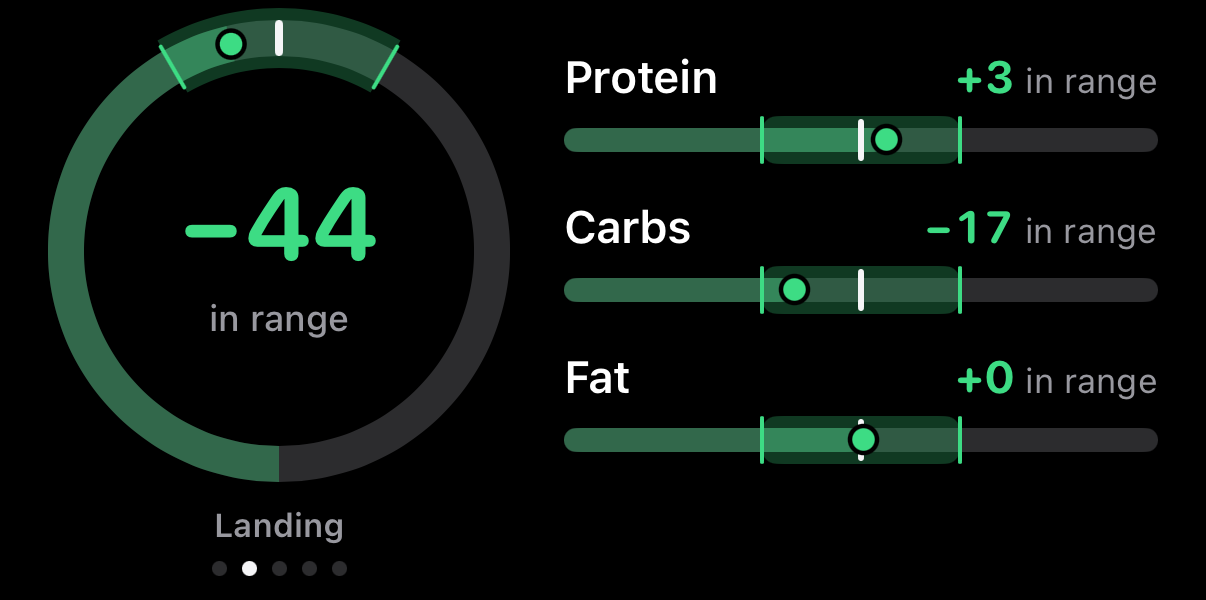
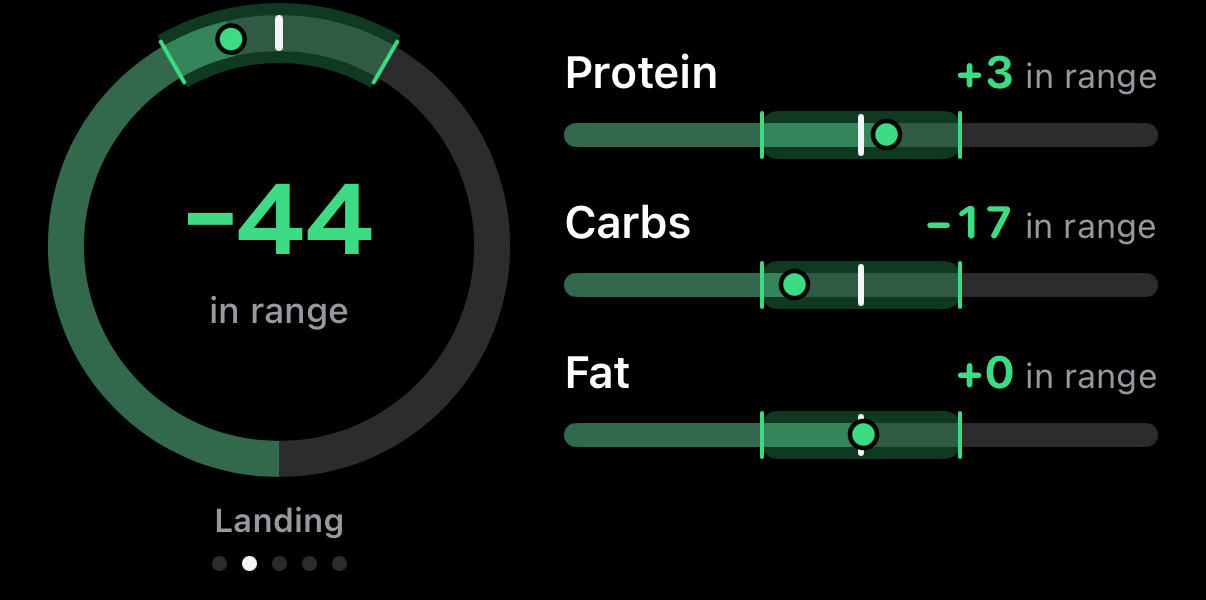
the app's captures and the ring's number are in Roundo, as the app now is (2026-11-03, Clark: "make the # in the gauge ring the same too"). Re-captured from the app: the five whole screens, the five gauges and the seven widgets, light and dark; the drawn ring's number takes the wordmark's font.

diff --git a/src/styles/today.css b/src/styles/today.css
@@ -4,7 +4,7 @@
 [data-ui] .today__hero { display: grid; grid-template-columns: 148px minmax(0, 1fr); gap: 18px; align-items: center; }
 [data-ui] .today__ring { position: relative; }
 [data-ui] .today__center { position: absolute; inset: 0; display: grid; place-content: center; text-align: center; }
-[data-ui] .today__center strong { font-family: var(--font-round); font-size: 32px; line-height: 1; font-weight: 700; letter-spacing: -0.03em; transition: color var(--t-ui) ease; }
+[data-ui] .today__center strong { font-family: var(--font-mark); font-size: 32px; line-height: 1; font-weight: 600; letter-spacing: -0.02em; transition: color var(--t-ui) ease; }
 [data-ui] .today__center strong[data-off="true"] { color: var(--amber); }
 [data-ui] .today__center span { margin-top: 3px; font-size: 12px; font-weight: 500; color: var(--label2); }
 [data-ui] .today__bars { display: grid; gap: 10px; }
